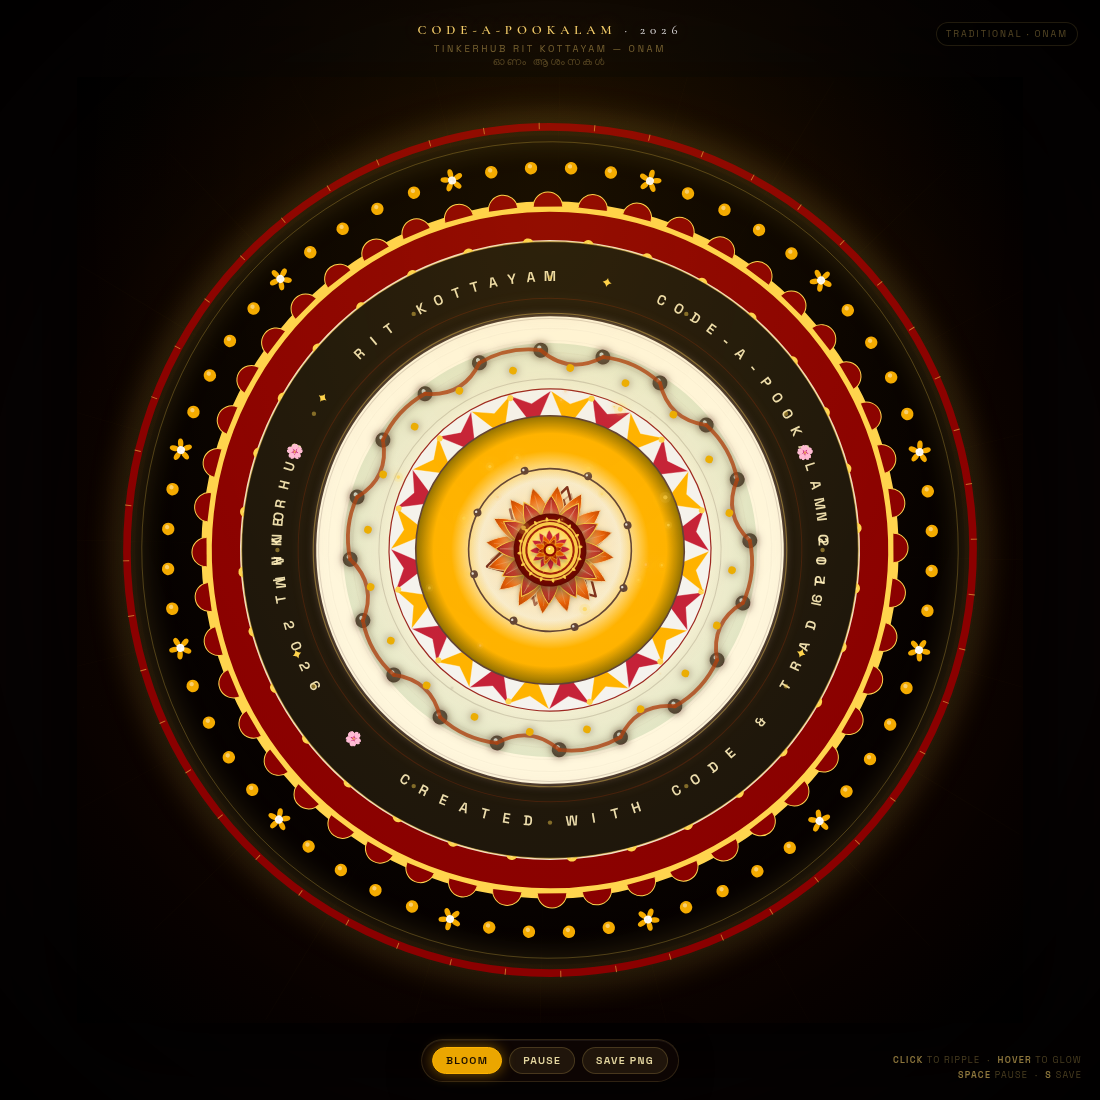
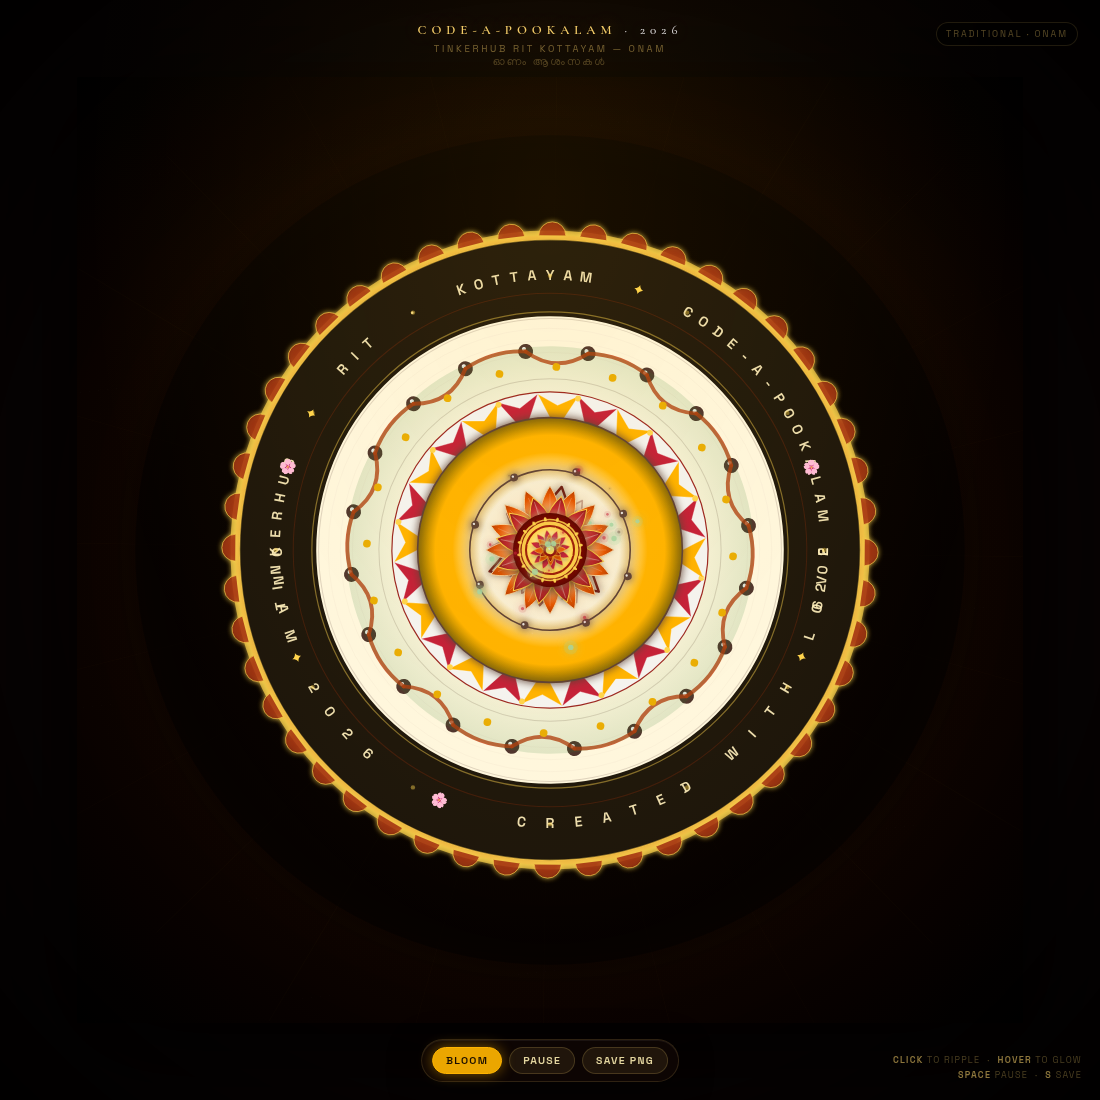
Text fix: RIT · KOTTAYAM spaced + CREATED WITH LOVE (was CODE)

Changed region(s): [[0.0927, 0.0927, 0.8964, 0.8964], [0.2473, 0.1855, 0.2782, 0.2164], [0.2164, 0.2164, 0.2473, 0.2473]]

diff --git a/index.html b/index.html
@@ -570,9 +570,9 @@ function drawTextRing(cx,cy,r,t,c){
   X.strokeStyle='rgba(255,213,79,0.45)'; X.lineWidth=1.2;
   X.beginPath(); X.arc(cx,cy,r*0.99,0,Math.PI*2); X.stroke();
   X.beginPath(); X.arc(cx,cy,r*0.76,0,Math.PI*2); X.stroke();
-  // circular text - top and bottom
-  const textTop = "  ✦  TINKERHUB  ✦  RIT KOTTAYAM  ✦  CODE-A-POOKALAM 2026  ✦  ";
-  const textBot = "  🌸  ONAM 2026  🌸  CREATED WITH CODE & TRADITION  🌸  ";
+  // circular text - top and bottom — spaced + LOVE
+  const textTop = "  ✦  TINKERHUB  ✦  RIT  ·  KOTTAYAM  ✦  CODE-A-POOKALAM 2026  ✦  ";
+  const textBot = "  🌸  ONAM 2026  🌸  CREATED WITH LOVE  🌸  ";
   function drawCircularText(str, radius, fontSize, color, rotOffset){
     X.save();
     X.translate(cx,cy);
